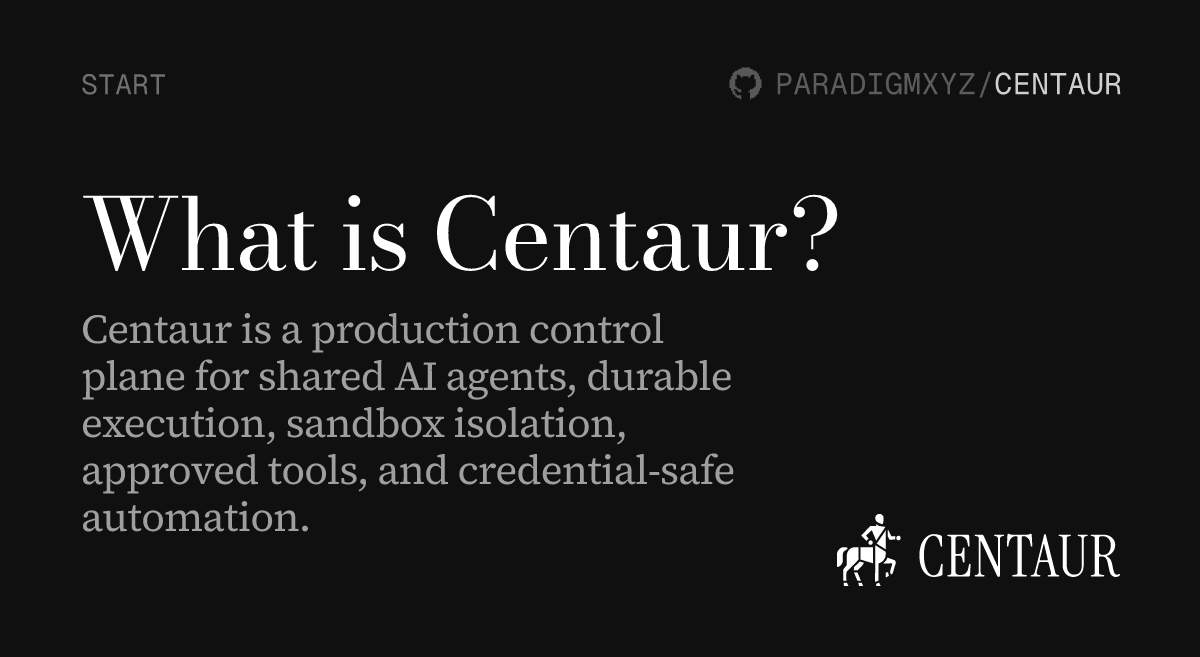
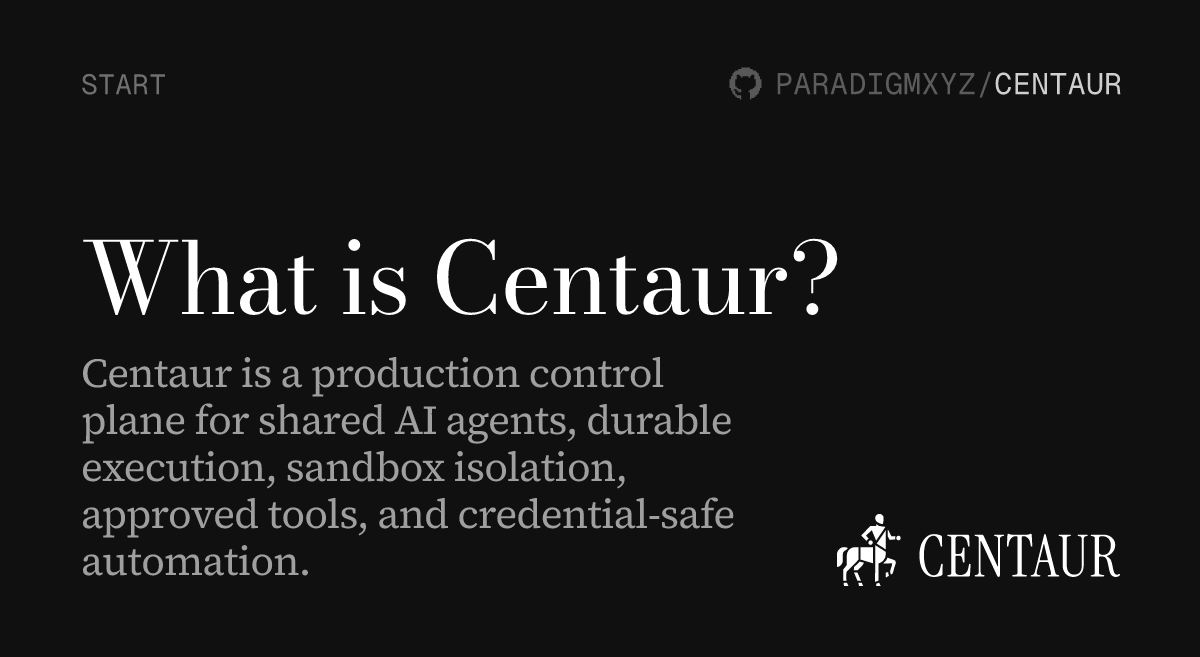
docs(og): bottom-align 5-line desc + tighten title leading 5%
- For descriptions that wrap to 5 lines (the densest case, e.g.
  /security and /what-is-centaur), anchor the last description
  baseline at y=575 — flush with the bottom edge of the centaur
  silhouette. Pulls the whole title/desc block downward so the title
  doesn't float alone near the eyebrow when there's a lot of body copy.
- TITLE_LINE_H 89 -> 84 (~5% tighter). Two-line titles now sit as a
  more cohesive block; Bodoni Moda has the side-bearings to absorb the
  negative leading without ascenders/descenders colliding.

Changed region(s): [[0.0617, 0.274, 0.7092, 0.6697], [0.0617, 0.7002, 0.6167, 0.8828]]

diff --git a/docs/scripts/build-og.ts b/docs/scripts/build-og.ts
@@ -236,7 +236,10 @@ function wrapText(text: string, maxChars: number, maxLines: number): string[] {
 const LEFT_X = 81
 const EYEBROW_BASELINE_Y = 94.18
 const DEFAULT_TITLE_BASELINE_Y = 270
-const TITLE_LINE_H = 89
+// 5% tighter than the previous 89px so the 99px serif title sits more
+// confidently on its own as a 2-line block (Bodoni Moda is wide enough
+// to handle the negative leading without colliding).
+const TITLE_LINE_H = 84
 const DESC_LINE_H = 47
 const TITLE_TO_DESC_BASELINE_GAP = 73
 // Description text occupies the left ~67% of the canvas (x=81..~820 after
@@ -245,6 +248,11 @@ const TITLE_TO_DESC_BASELINE_GAP = 73
 // last description baseline is free to extend down to ~y=540 without
 // visually crashing into the logo.
 const DESC_BASELINE_MAX_Y = 540
+// For the worst-case 5-line description, anchor the last baseline at the
+// centaur silhouette's bottom edge (~y=586 minus ~11px descender space)
+// instead of top-packing. This pulls the whole title/desc block downward
+// so the title doesn't float lonely near the eyebrow on the densest cards.
+const DESC_BASELINE_BOTTOM_Y = 575
 
 function computeStackY(nTitle: number, nDesc: number) {
   const titleStackHeight = Math.max(0, nTitle - 1) * TITLE_LINE_H
@@ -252,9 +260,15 @@ function computeStackY(nTitle: number, nDesc: number) {
     nDesc > 0 ? TITLE_TO_DESC_BASELINE_GAP + Math.max(0, nDesc - 1) * DESC_LINE_H : 0
 
   let firstTitleBaseline = DEFAULT_TITLE_BASELINE_Y
-  const projectedLastDescBaseline = firstTitleBaseline + titleStackHeight + descStackHeight
-  if (nDesc > 0 && projectedLastDescBaseline > DESC_BASELINE_MAX_Y) {
-    firstTitleBaseline -= projectedLastDescBaseline - DESC_BASELINE_MAX_Y
+  if (nDesc === 5) {
+    // Densest case: bottom-align the last description baseline with the
+    // centaur silhouette so the title/desc group settles low on the card.
+    firstTitleBaseline = DESC_BASELINE_BOTTOM_Y - descStackHeight - titleStackHeight
+  } else {
+    const projectedLastDescBaseline = firstTitleBaseline + titleStackHeight + descStackHeight
+    if (nDesc > 0 && projectedLastDescBaseline > DESC_BASELINE_MAX_Y) {
+      firstTitleBaseline -= projectedLastDescBaseline - DESC_BASELINE_MAX_Y
+    }
   }
 
   const titleBaselines = Array.from(